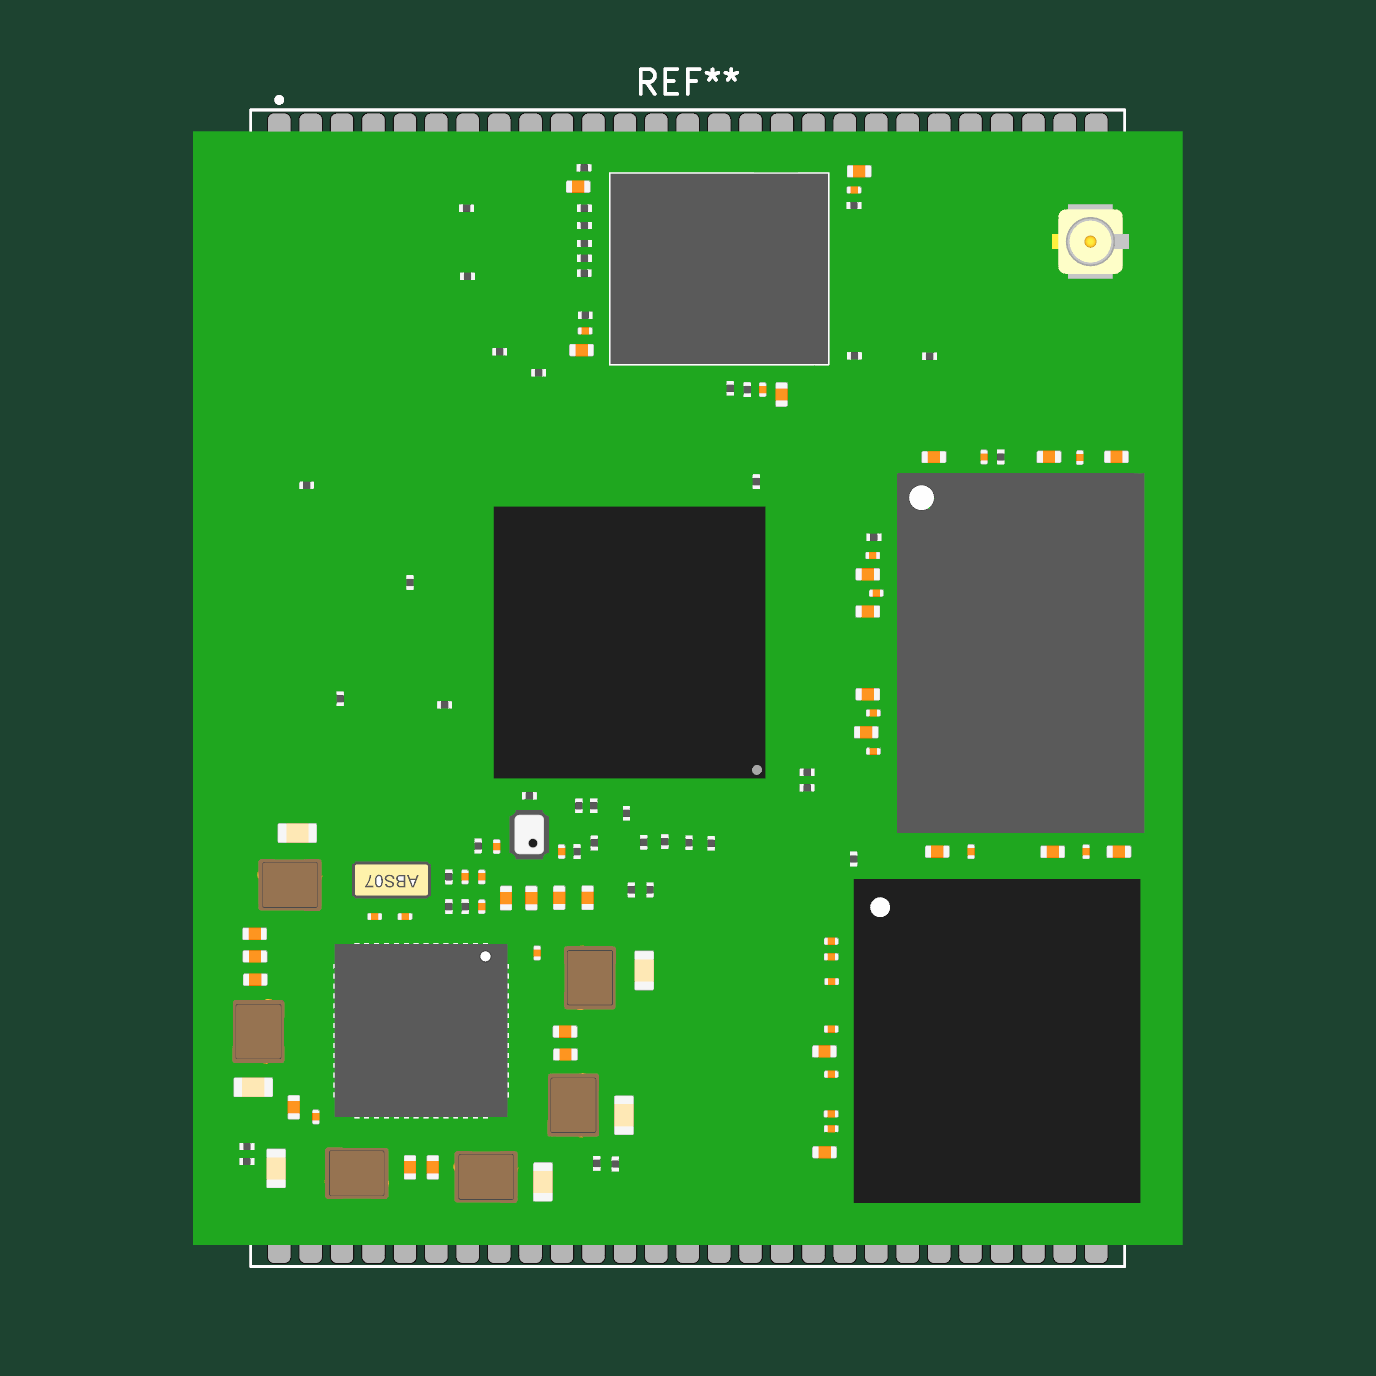
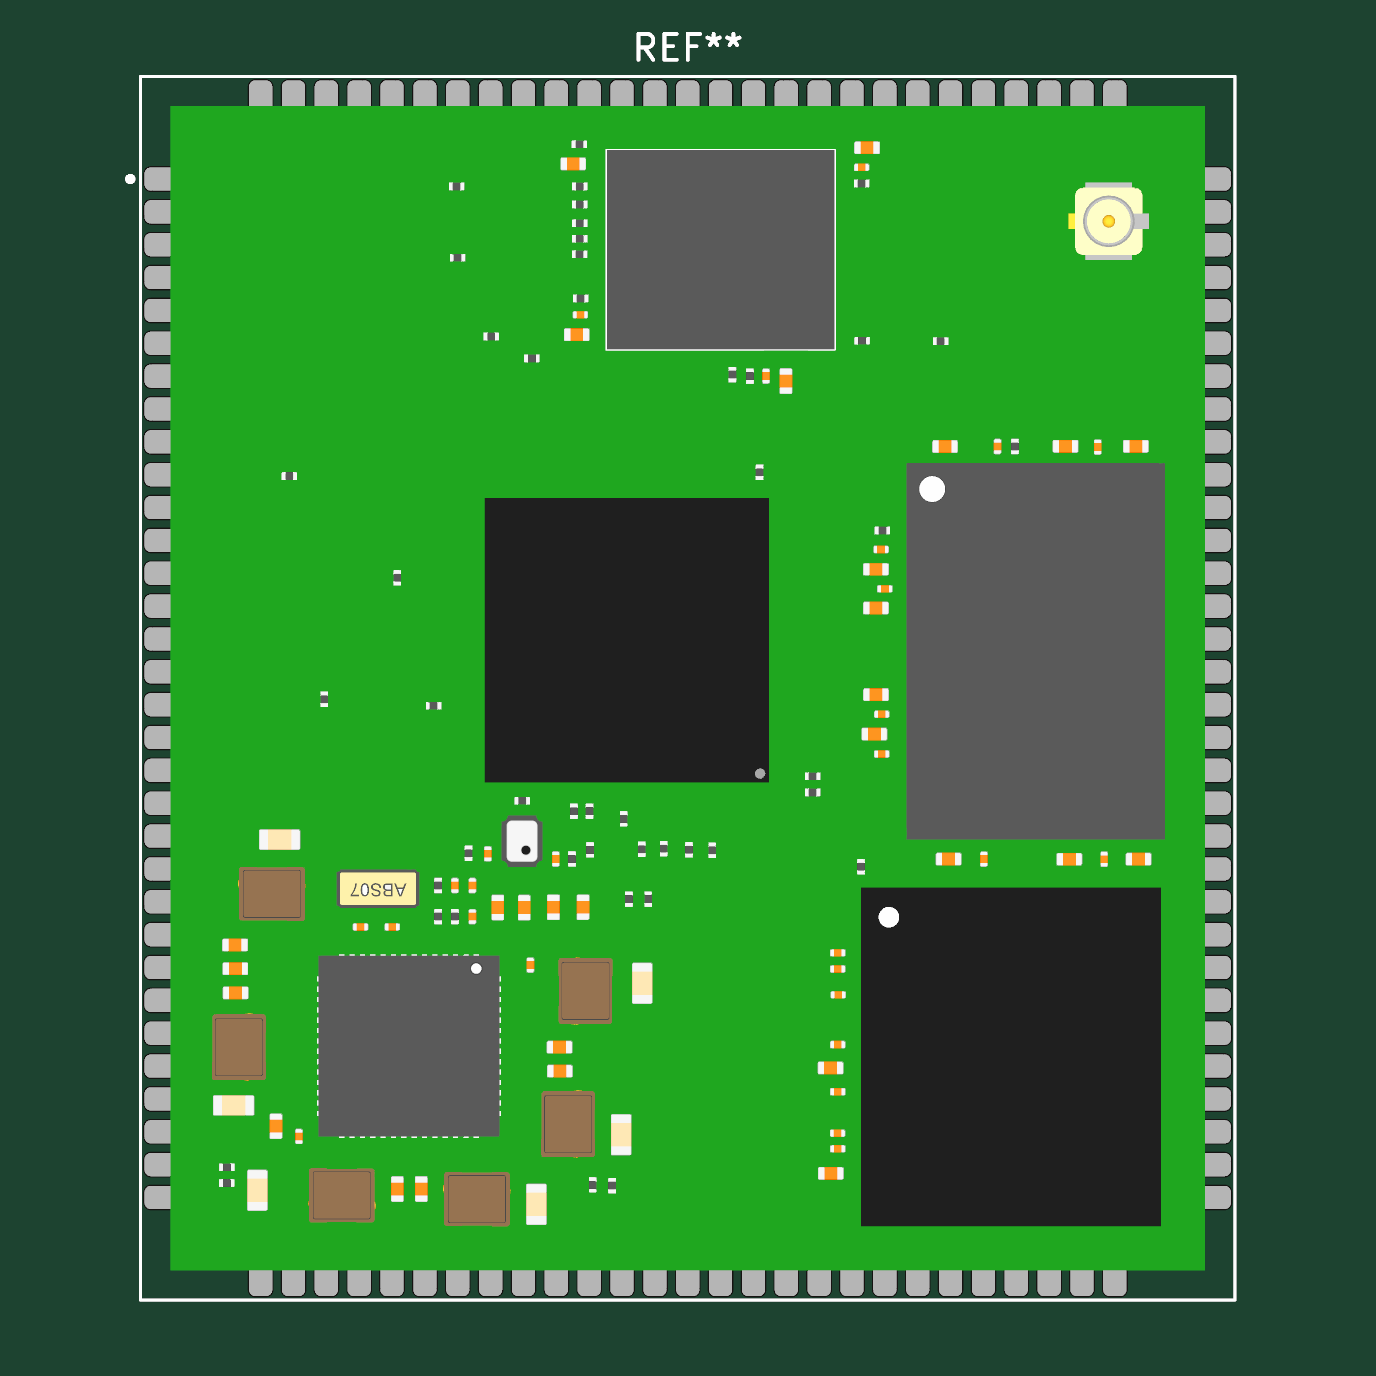
[LIMA] kicad: fix CC93 pad geometry from HRM p.83; add host cutout marking
The 33,56 mm the footprint was built around is the HOST PCB CUTOUT width, not
the pad row span. That single misread put 64 of 118 pads 3.49 mm inboard, under
the module body, where a castellation cannot reach them.

Source: HRM 90002549 rev 4P p.83 'Host PCB footprint and cutout'. The drawing is
an embedded bitmap, so it was measured by projection profile calibrated on the
1.27 mm pad pitch, then checked against four of its own dimension labels
(33,56 / 20,86 / 12,07 / 3,22) all reproduced to better than 0.1 mm.

  side columns  x = +/-16.510 -> +/-20.000   (64 pads)
  top/bot rows  y = +/-22.225 -> +/-22.500   (54 pads)
  F.Fab body    33.56 x 44.45 -> 40.000 x 45.000 with pin-1 chamfer
  Dwgs.User     host cutout 33.56 x 20.86 centred, plus the measured
                bottom-side protrusion envelope for reference

Numbering, pitch, counts and pad sizes were always correct; this is a pure
translation of each run outward onto the module outline.

Verified: all four runs straddle the edge by exactly 1.000 mm, matching DETAIL
A's '1' dimension - an agreement nobody aimed for; 118 pads numbered 1..118 with
no gaps; 0 overlapping pairs; kicad-cli pcb drc 0 violations; render shows
castellations on all four edges where two sides were previously bare.

Digi's own Altium PcbLib was checked first and does NOT cover this part - it
holds a 474-pad LGA array, a different variant. Recorded so it is not retried.

diff --git a/kicad/lib/README.md b/kicad/lib/README.md
@@ -20,7 +20,12 @@ Built 2026-08-21 from **ConnectCore 93 System-on-Module Hardware Reference Manua
   counter-clockwise numbering, and 32+27+32+27 = 118 independently confirms the pad table.
 - **Overlap check** — `[measured]` every pad pair tested; zero overlaps.
 
-## Read this before using it on real hardware
+## ~~Read this before using it on real hardware~~ — SUPERSEDED 2026-08-21
+
+> **This whole section was wrong and is kept only as a record.** The 33.56 mm it treats as the
+> pad row span is the **host PCB cutout width**. See *Resolved* at the foot of this file.
+
+### original text
 
 **The corner offsets are approximated.** The HRM dimensions the row span (33.56 mm) and the pad
 pitch, but not the gap between where a column run ends and a row run begins. Placing rows and
@@ -96,7 +101,7 @@ Verified at the point of use: placed on a throwaway board and rendered headlessl
 `kicad-cli pcb render`. Evidence in `doc/cc93_3dmodel_top.png` and `doc/cc93_3dmodel_front.png`.
 The front view confirms the module seats flat on the host board.
 
-## ⚠ What the render exposed: the side pad columns are in the wrong place
+## ⚠ What the render exposed: the side pad columns were in the wrong place  — NOW FIXED
 
 This is the caveat the old README flagged as "the corner offsets are approximated", and it is worse
 than approximate. The module is **40 mm wide**, not the 33.56 mm that was read off the HRM.
@@ -115,12 +120,10 @@ visible past the module edge and the left and right columns are simply not there
 Pad **counts and pitch are fine** — 32 pads × 1.27 = 39.37 mm inside the 45 mm edge, 27 × 1.27 =
 33.02 mm inside the 40 mm edge. Only the columns' X coordinate and the body outline are wrong.
 
-**The fix is not yet made, deliberately.** By analogy with the rows (centre 0.275 mm inboard of the
-edge) the columns belong at **x = ±19.725** — but that is `[derived]`, not read from a drawing, and
-it silently moves 64 electrical pads. Confirm it against the HRM pad table or Digi's Altium
-`CC93_LGA.SchLib` / `CC93_DVK.PcbLib` before applying. The body outline should become 40 × 45 mm.
+**Fixed — see *Resolved* below.** The derived ±19.725 was close but wrong; the drawing gives
+**±20.000**, pads centred exactly on the module outline.
 
-## ⚠ The host board needs a keepout under the module
+## ⚠ The host board needs a keepout under the module  — NOW MARKED
 
 `[measured]` from the STEP: **105 solids sit entirely below the SOM's PCB**, protruding **0.700 mm**
 past its bottom face. The module cannot seat flat on a plain host board.
@@ -132,7 +135,8 @@ X  -11.750 … +15.400   (27.150 mm)
 Y   -4.425 …  +7.850   (12.275 mm)
 ```
 
-The footprint carries no keepout for this. It should.
+Now marked on `Dwgs.User` — see *Resolved* below. Digi's own dimensioned cutout is larger than
+this measured envelope, and Digi's is the one to build to.
 
 ## ⚠ Digi ships the wrong file under the footprint/cutout asset
 
@@ -147,3 +151,79 @@ ConnectCore 8X-Host PCB footprint and cutout.pdf
 **ConnectCore 8X — a different module.** This is the exact document the earlier README told us to
 check the corner geometry against. It is not the right part, and its file dates (2022-09-08) predate
 the CC93. Do not use it for CC93 corner geometry; raise it with Digi.
+
+---
+
+# 2026-08-21 (later) · RESOLVED — geometry sourced from the HRM drawing
+
+Digi's Altium `CC93_DVK.PcbLib` was opened (via KiCad 10's own built-in Altium importer, through
+`pcbnew` Python) and it **does not answer the question**: it holds one footprint, a **474-pad LGA
+array** at 1.27 mm pitch spanning 40.64 × 35.56 mm with six mounting holes. That is the LGA variant's
+land pattern — a different part from the 118-pad castellated one. Recorded so nobody spends the time
+twice. It does corroborate the body size indirectly: its array sits inside a 45 × 40 body with a
+uniform 2.18 mm margin on both axes.
+
+The answer came from **HRM 90002549 rev 4P, page 83, "Host PCB footprint and cutout"** — which shows
+LGA *and* CASTELLATION footprints side by side. The drawing is an embedded bitmap, not vector, so it
+was measured by projection profile and calibrated against the pad pitch. `[measured]`
+
+**Guard against the instrument:** autocorrelation on the right-hand column locked onto the *second*
+harmonic (100.8 px vs the true 50.4 px), which would have halved every result. The three concordant
+runs outvoted it. The calibration was then checked against four of the drawing's own dimension
+labels before any of it was believed:
+
+| Drawing label | Reproduced from the bitmap | Error |
+|---|---|---|
+| `33,56` | 33.632 mm | 0.07 |
+| `20,86` | 20.880 mm | 0.02 |
+| `12,07` | 12.057 mm | 0.01 |
+| `3,22` | 3.225 mm | 0.005 |
+
+## What 33,56 actually is
+
+**`33,56` dimensions the HOST PCB CUTOUT width.** It is not the pad span, and never was. The earlier
+session read it as the row span and built all 118 pads around it — which is how 64 pads ended up
+3.49 mm inboard of where they belong.
+
+## Corrected geometry — applied
+
+Pad centres sit **on the module outline**, confirmed three ways: the drawing measures ±20.046 /
+±22.504; the STEP gives the body as exactly 40.000 × 45.000; and DETAIL A dimensions the pad as
+2 mm long with **1** from its centreline, i.e. 1 mm either side of the edge.
+
+| | was | now | source |
+|---|---|---|---|
+| Side columns (64 pads) | x = ±16.510 | **x = ±20.000** | HRM p.83 + STEP outline |
+| Top/bottom rows (54 pads) | y = ±22.225 | **y = ±22.500** | HRM p.83 + STEP outline |
+| F.Fab body | 33.56 × 44.45 | **40.000 × 45.000**, pin-1 chamfer | STEP |
+| Courtyard | ±17.76 × ±23.475 | **±21.25 × ±23.75** | pad envelope + 0.25 |
+| Host cutout | — | **33.56 × 20.86 centred**, on `Dwgs.User` | HRM p.83 |
+
+Pad numbering, pitch, counts (32/27/32/27) and sizes (0.9 × 2.0) are unchanged — they were always
+right. The correction is a pure translation of each run outward.
+
+Verified `[measured]`: all four runs straddle the module edge by exactly **1.000 mm**, matching
+DETAIL A's `1`; 118 pads present and numbered 1..118 with no gaps; **0 overlapping pad pairs**;
+`kicad-cli pcb drc` **0 violations**; and the render `doc/cc93_3dmodel_top.png` now shows
+castellations on all four edges where before two sides were bare.
+
+The 1.000 mm overhang was not a target — it fell out of the drawing measurement and then matched
+DETAIL A. That agreement is the strongest evidence here.
+
+## The keepout, and which number to build to
+
+Two figures, and they are not the same thing:
+
+- **Digi's dimensioned cutout: 33.56 × 20.86 mm**, centred. Heavy line on `Dwgs.User`. **Build to this.**
+- **Measured protrusion envelope: X −11.75…+15.40, Y −4.425…+7.85** `[measured]` from the STEP.
+  Thin line on `Dwgs.User`, for reference only. It sits comfortably inside Digi's cutout, which is
+  what you would hope — Digi's allows for tolerance and assembly.
+
+Deepest bottom-side protrusion is **0.700 mm** below the SOM's PCB, across 105 solids.
+
+## Still open
+
+- The symbol (`Digi.kicad_sym`) is untouched and still has `NVCC_SD2` / `1V8` typed `bidirectional`
+  where they are power rails, and empty Footprint/Datasheet/Description properties.
+- Digi's *"ConnectCore 91 and 93 — Host PCB footprint and cutout drawing"* asset still ships
+  ConnectCore **8X** files. Worth reporting to Digi; the HRM page 83 drawing is the usable source.

diff --git a/.agent/MEMORY.md b/.agent/MEMORY.md
@@ -199,3 +199,37 @@ the only artefact that carries the outline, so it is the only thing that can cat
 5. **Read the whole model, not just the outline.** 105 solids hang 0.700 mm below the SOM's PCB
    bottom face — the module cannot seat flat on a plain host board. A footprint with no keepout for
    that looks perfectly correct in 2D and is unbuildable.
+
+## KiCAD scar — a datasheet dimension measures what it points at, not what you hoped (2026-08-21)
+`[measured]`. Follow-on to the scar above. The CC93 footprint's 118 pads were built around **33,56 mm**
+read off HRM 90002549 p.83 as "the pad row span". It is the **HOST PCB CUTOUT width**. One misread
+dimension put 64 of 118 pads 3.49 mm inboard, under the module body, and every downstream check —
+pad-overlap, DRC, pad-count reconciliation against the datasheet — passed anyway.
+
+**How it was finally settled, and what nearly broke each step:**
+1. **Digi's own Altium `CC93_DVK.PcbLib` did not answer it.** It holds a 474-pad **LGA** array — a
+   different variant from the 118-pad castellated part. Reading it was still worth it: **KiCad ships
+   an Altium importer usable from Python** — `/Applications/KiCad/KiCad.app/Contents/Frameworks/
+   Python.framework/Versions/3.9/bin/python3.9`, then `pcbnew.PCB_IO_MGR.FindPlugin(
+   pcbnew.PCB_IO_MGR.ALTIUM_DESIGNER)` → `.FootprintEnumerate(path)` / `.FootprintLoad(path, name)`.
+   No need to hand-parse OLE. Same trick reads Eagle, CADSTAR, EasyEDA, PCAD.
+2. **The HRM drawing is an embedded BITMAP, not vector.** A PDF content-stream walk returned 3
+   subpaths. Check `page.images` before writing a vector extractor.
+3. **Autocorrelation picked the 2nd harmonic** on one of four pad runs — 100.8 px against the true
+   50.4 px — which would have halved every dimension. Three concordant runs outvoted the outlier.
+   *Measure the same quantity several independent ways and let them vote; a lone number has no way
+   to tell you it is wrong.*
+4. **Calibration was checked against four of the drawing's own labels** (33,56 / 20,86 / 12,07 /
+   3,22, all reproduced to better than 0.1 mm) **before any result was believed.** A dimensioned
+   drawing carries its own test fixture — use it.
+
+**Rules:**
+- **Before building geometry off a single dimension, confirm what it is measuring** by reproducing a
+  second, independent dimension from the same drawing. One number read off a datasheet is `[assumed]`,
+  not `[fetched]`, until something else agrees with it.
+- **Prefer a constraint that falls out rather than one you set.** The corrected pads straddle the
+  module edge by exactly **1.000 mm**, which then matched DETAIL A's `1` — nobody aimed at that, and
+  that is precisely why it is good evidence. A number you chose proves nothing; a number that arrives
+  on its own and agrees with an independent source is close to proof.
+- **When correcting a document, mark the old claim superseded in place — do not delete it.** The
+  wrong reasoning is what stops the next session repeating it.
